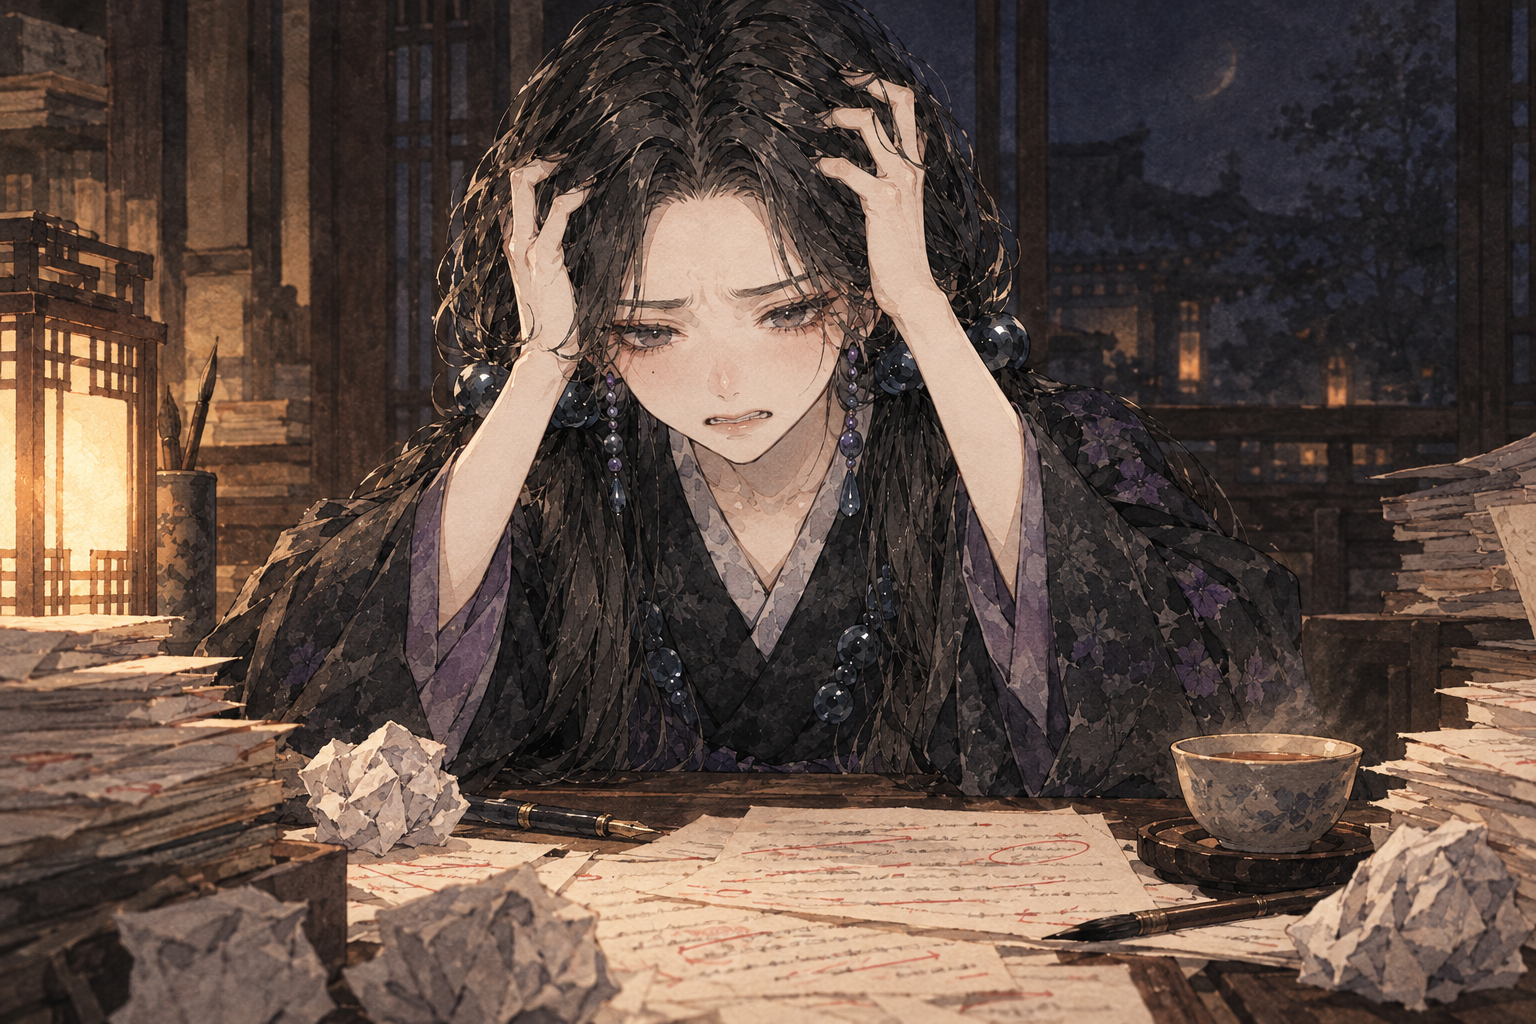
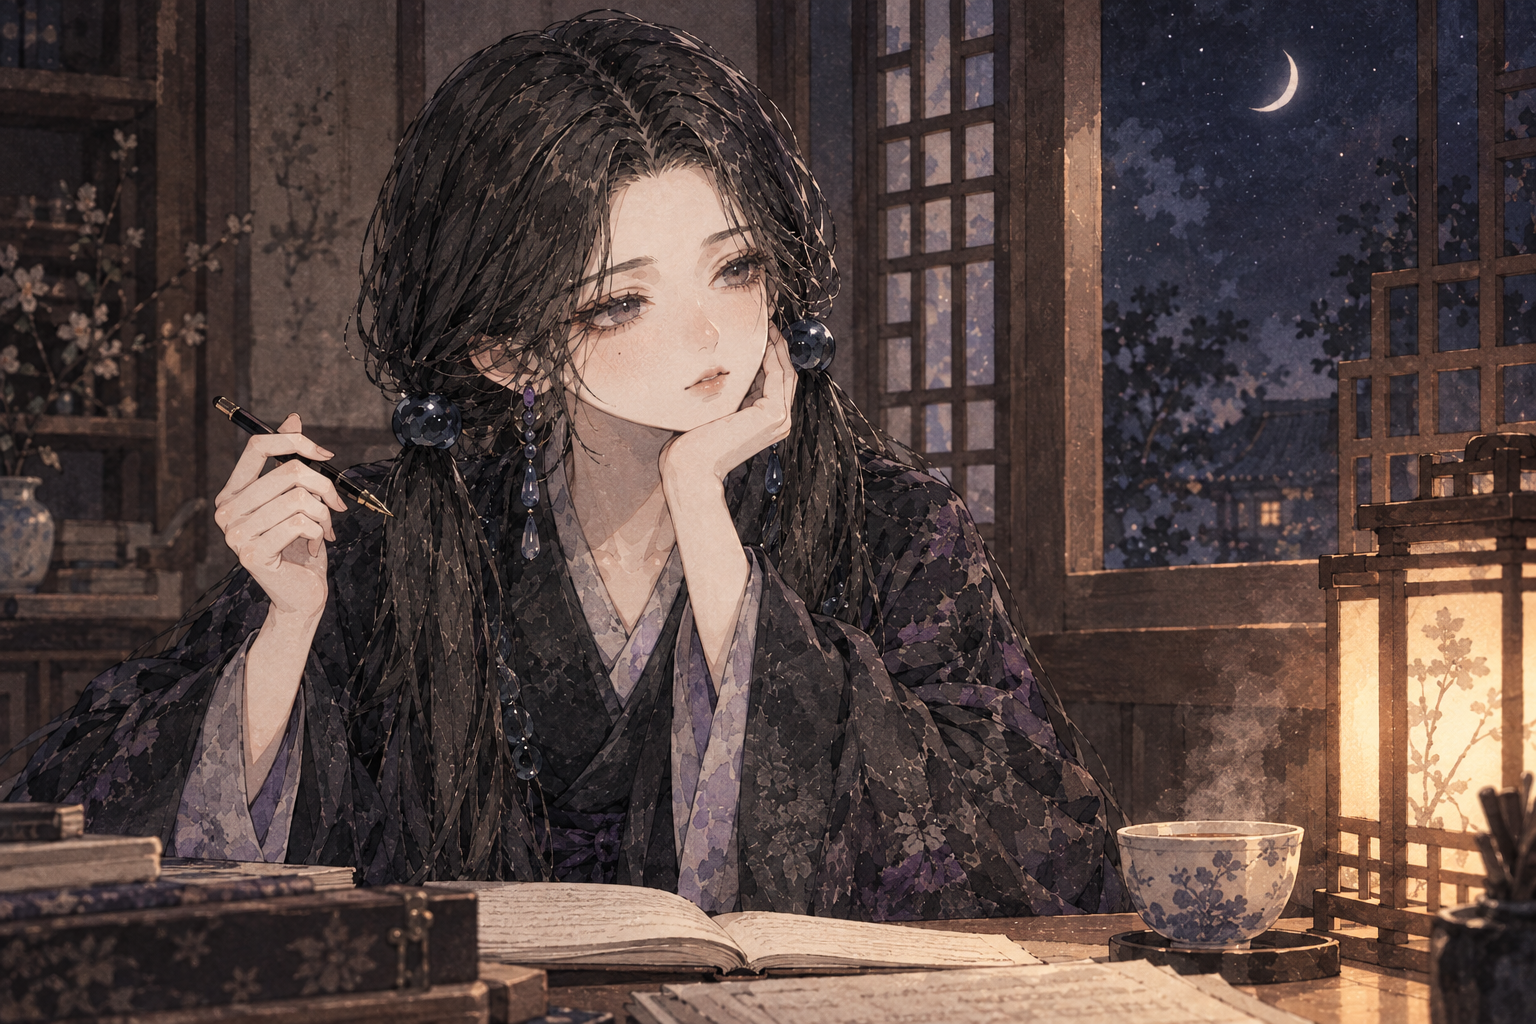
fix: split draft filtering and track fallback corpus

diff --git a/scripts/build_style_probe.py b/scripts/build_style_probe.py
@@ -23,6 +23,9 @@ POLITE_EXCEPT = ('아니다.', '아니다!', '아니다?')
 SENT_END = ('다.', '까.', '가.', '요.', '까?', '가?', '다!', '요!', '죠.', '네.')
 NUM_MARKER = re.compile(r'^\d+\.\s*')
 BULLET_MARKER = re.compile(r'^[-*]\s+')
+DRAFT_BULLET_MARKER = re.compile(r'^[-*+]\s+')
+DRAFT_SKIP_PREFIX = ('|', '#', '!', '>', '<', '```')
+REFERENCE_DEFINITION = re.compile(r'^\[[^\]]+\]:(?:\s|$)')
 
 HTML_STRIP_BLOCKS = re.compile(
     r'<(?:script|style|svg|head|noscript|code|pre)\b[^>]*>[\s\S]*?</(?:script|style|svg|head|noscript|code|pre)>'
@@ -149,6 +152,17 @@ def strip_non_prose_blocks(text):
     return HTML_CODE_BLOCKS.sub('\n', ''.join(lines))
 
 
+def strip_inline_markdown(text):
+    """표시 문법만 걷어 내고 초안의 문장 텍스트를 보존한다."""
+    text = re.sub(r'!\[([^\]]*)\]\([^)]*\)', r'\1', text)
+    text = re.sub(r'\[([^\]]+)\]\([^)]*\)', r'\1', text)
+    text = re.sub(r'\[([^\]]+)\]\[[^\]]*\]', r'\1', text)
+    text = re.sub(r'\[\^[^\]]+\]', '', text)
+    text = re.sub(r'`([^`]+)`', r'\1', text)
+    text = re.sub(r'(\*\*|__|~~)(.*?)\1', r'\2', text)
+    return re.sub(r'(?<!\w)([*_])([^*_]+)\1(?!\w)', r'\2', text)
+
+
 def register_of(sent):
     """문장의 문체를 plain 또는 polite로 구분한다."""
     if sent.endswith(POLITE_EXCEPT):
@@ -191,6 +205,34 @@ def iter_sentences(path, min_len, max_len, prose_only=True):
             if prose_only and not is_prose(sent):
                 continue
             if min_len <= len(sent) <= max_len:
+                yield sent
+
+
+def iter_draft_sentences(path, min_len=4, max_len=400):
+    """초안에서 완결문과 길이가 충분한 어구를 추출한다."""
+    with io.open(path, encoding='utf-8') as source:
+        raw = source.read()
+    ext = os.path.splitext(path)[1].lower()
+    if ext in ('.html', '.htm'):
+        text = html_to_lines(strip_non_prose_blocks(raw))
+    else:
+        text = strip_non_prose_blocks(strip_frontmatter(raw))
+    for line in text.split('\n'):
+        line = line.strip()
+        if not line or line.startswith(DRAFT_SKIP_PREFIX):
+            continue
+        if REFERENCE_DEFINITION.match(line):
+            continue
+        line = NUM_MARKER.sub('', line)
+        line = DRAFT_BULLET_MARKER.sub('', line)
+        line = strip_inline_markdown(line)
+        for sent in SPLIT.split(line):
+            sent = sent.strip()
+            if not sent or len(sent) > max_len:
+                continue
+            complete = sent.endswith(SENT_END) or re.search(r'[.!?]["\'\)\]]*$', sent)
+            minimum = min_len if complete else 12
+            if len(sent) >= minimum:
                 yield sent
 
 
@@ -330,7 +372,7 @@ def main(argv=None):
         sys.stderr.write('초안 파일은 .md, .txt, .html, .htm 형식이어야 한다.\n')
         return 2
     try:
-        draft = list(iter_sentences(draft_path, 12, 400, prose_only=False))
+        draft = list(iter_draft_sentences(draft_path))
     except (OSError, UnicodeError) as error:
         sys.stderr.write('초안을 읽을 수 없다: %s\n' % error)
         return 2
@@ -345,13 +387,12 @@ def main(argv=None):
     reference = collect_reference(
         corpus_dir, exclude, args.ref_count, args.seed, register, draft_path=draft_path,
     )
-    extracted_reference_count = len(reference)
+    user_ref_sentence_count = len(reference)
     use_fallback = args.allow_empty_corpus or (args.corpus_dir is None and corpus_dir is None)
-    used_fallback = False
 
     if len(reference) < MIN_REFERENCE_SENTENCES and use_fallback:
         reference = fallback_sentences(register, reference)
-        used_fallback = True
+    builtin_ref_sentence_count = len(reference) - user_ref_sentence_count
     if len(reference) < MIN_REFERENCE_SENTENCES:
         sys.stderr.write(
             '기준 코퍼스가 %d문장뿐이다(문체 %s). '
@@ -368,11 +409,12 @@ def main(argv=None):
     register_label = '합쇼체/해요체' if register == 'polite' else '해라체'
     target_rewrite_count = max(1, round(len(draft) * args.top_pct))
     # The mode distinguishes user samples from built-in fallback sentences.
-    corpus_mode = (
-        'empty'
-        if used_fallback and extracted_reference_count == 0
-        else 'corpus'
-    )
+    if user_ref_sentence_count == 0:
+        corpus_mode = 'empty'
+    elif builtin_ref_sentence_count > 0:
+        corpus_mode = 'mixed'
+    else:
+        corpus_mode = 'corpus'
 
     with io.open(reference_path, 'w', encoding='utf-8', newline='\n') as output:
         output.write('\n'.join('- ' + sentence for sentence in reference) + '\n')
@@ -387,6 +429,8 @@ def main(argv=None):
         'corpus_mode': corpus_mode,
         'allow_empty_corpus': args.allow_empty_corpus,
         'ref_sentence_count': len(reference),
+        'user_ref_sentence_count': user_ref_sentence_count,
+        'builtin_ref_sentence_count': builtin_ref_sentence_count,
         'draft_sentence_count': len(draft),
         'top_pct': args.top_pct,
         'target_rewrite_count': target_rewrite_count,
@@ -397,8 +441,14 @@ def main(argv=None):
 
     percent_label = int(round(args.top_pct * 100))
     print('문체 판정  : %s' % register_label)
-    if used_fallback:
+    if corpus_mode == 'empty':
         print('코퍼스 모드: 내장 기본 기준선 사용')
+    elif corpus_mode == 'mixed':
+        print(
+            '코퍼스 모드: 사용자 코퍼스 + 내장 기본 기준선 혼합 '
+            '(사용자 %d문장, 내장 %d문장)'
+            % (user_ref_sentence_count, builtin_ref_sentence_count)
+        )
     print('기준 코퍼스: %d문장 -> %s' % (len(reference), reference_path))
     print('초안 문장  : %d문장 -> %s' % (len(draft), draft_sentences_path))
     print('재작성 대상: 상위 %d문장 (%d%%)' % (target_rewrite_count, percent_label))

diff --git a/tests/test_build_style_probe.py b/tests/test_build_style_probe.py
@@ -81,7 +81,8 @@ class BuildStyleProbeTests(unittest.TestCase):
                 set(metadata),
                 {
                     'register', 'register_label', 'corpus_mode', 'allow_empty_corpus',
-                    'ref_sentence_count', 'draft_sentence_count', 'top_pct',
+                    'ref_sentence_count', 'user_ref_sentence_count',
+                    'builtin_ref_sentence_count', 'draft_sentence_count', 'top_pct',
                     'target_rewrite_count',
                 },
             )
@@ -90,6 +91,8 @@ class BuildStyleProbeTests(unittest.TestCase):
             self.assertEqual(metadata['corpus_mode'], 'corpus')
             self.assertIs(metadata['allow_empty_corpus'], False)
             self.assertIs(type(metadata['ref_sentence_count']), int)
+            self.assertEqual(metadata['user_ref_sentence_count'], 30)
+            self.assertEqual(metadata['builtin_ref_sentence_count'], 0)
             self.assertIs(type(metadata['draft_sentence_count']), int)
             self.assertEqual(metadata['ref_sentence_count'], len(reference.read_text(encoding='utf-8').splitlines()))
             self.assertEqual(metadata['draft_sentence_count'], len(draft.read_text(encoding='utf-8').splitlines()))
@@ -115,6 +118,8 @@ class BuildStyleProbeTests(unittest.TestCase):
             self.assertEqual(metadata['corpus_mode'], 'empty')
             self.assertIs(metadata['allow_empty_corpus'], True)
             self.assertEqual(metadata['ref_sentence_count'], 25)
+            self.assertEqual(metadata['user_ref_sentence_count'], 0)
+            self.assertEqual(metadata['builtin_ref_sentence_count'], 25)
             self.assertIs(type(metadata['ref_sentence_count']), int)
             self.assertIs(type(metadata['draft_sentence_count']), int)
             self.assertIs(type(metadata['top_pct']), float)
@@ -122,6 +127,67 @@ class BuildStyleProbeTests(unittest.TestCase):
             self.assertEqual(metadata['ref_sentence_count'], len(reference.read_text(encoding='utf-8').splitlines()))
             self.assertEqual(metadata['draft_sentence_count'], len(draft.read_text(encoding='utf-8').splitlines()))
             self.assertEqual(metadata['target_rewrite_count'], 1)
+
+    def test_draft_extracts_short_complete_bold_and_link_sentences(self):
+        with tempfile.TemporaryDirectory() as temporary_dir:
+            draft_source = Path(temporary_dir) / 'draft.md'
+            output_dir = Path(temporary_dir) / 'output'
+            draft_source.write_text(
+                '위험은 셋이다.\n'
+                '**이 주장은 앞서 확인한 자료와 맞지 않는다.**\n'
+                '[보고서](https://example.com)는 다른 결론을 제시한다.\n'
+                '일반적인 길이의 평문도 빠짐없이 추출되어야 한다.\n',
+                encoding='utf-8',
+            )
+            result = self.run_probe(
+                '--corpus-dir', temporary_dir,
+                '--draft', draft_source,
+                '--out-dir', output_dir,
+                '--allow-empty-corpus',
+            )
+            self.assertEqual(result.returncode, 0, result.stderr)
+            draft_path = output_dir / 'draft_sents.txt'
+            sentences = [
+                re.sub(r'^\s*\d+\.\s*', '', line)
+                for line in draft_path.read_text(encoding='utf-8').splitlines()
+            ]
+            metadata = json.loads((output_dir / 'probe_meta.json').read_text(encoding='utf-8'))
+            self.assertEqual(
+                sentences,
+                [
+                    '위험은 셋이다.',
+                    '이 주장은 앞서 확인한 자료와 맞지 않는다.',
+                    '보고서는 다른 결론을 제시한다.',
+                    '일반적인 길이의 평문도 빠짐없이 추출되어야 한다.',
+                ],
+            )
+            self.assertEqual(metadata['draft_sentence_count'], 4)
+            self.assertEqual(
+                self.probe.collect_reference(temporary_dir, [], 45, 11, 'plain'),
+                ['일반적인 길이의 평문도 빠짐없이 추출되어야 한다.'],
+            )
+
+    def test_partial_user_corpus_with_fallback_sets_mixed_mode_and_counts(self):
+        with tempfile.TemporaryDirectory() as temporary_dir:
+            corpus_dir = Path(temporary_dir) / 'corpus'
+            output_dir = Path(temporary_dir) / 'output'
+            corpus_dir.mkdir()
+            (corpus_dir / 'sample.md').write_text(
+                '사용자가 직접 작성한 기준 문장은 코퍼스 표본에 먼저 담긴다.\n',
+                encoding='utf-8',
+            )
+            result = self.run_probe(
+                '--corpus-dir', corpus_dir,
+                '--draft', EXAMPLE_DRAFT,
+                '--out-dir', output_dir,
+                '--allow-empty-corpus',
+            )
+            self.assertEqual(result.returncode, 0, result.stderr)
+            metadata = json.loads((output_dir / 'probe_meta.json').read_text(encoding='utf-8'))
+            self.assertEqual(metadata['corpus_mode'], 'mixed')
+            self.assertEqual(metadata['user_ref_sentence_count'], 1)
+            self.assertEqual(metadata['builtin_ref_sentence_count'], 19)
+            self.assertEqual(metadata['ref_sentence_count'], 20)
 
     def test_code_blocks_are_excluded_from_draft_sentences_and_metadata(self):
         with tempfile.TemporaryDirectory() as temporary_dir:

diff --git a/README.md b/README.md
@@ -2,9 +2,12 @@
 
 안녕하십니까, 서소영이라 하옵니다. 먼 타국에서 마법을 수련하며, 날마다 기술 문헌과 세상의 변화를 읽고 글로 정리하는 일을 맡고 있사옵니다.
 
-![머리를 쥐어싸고 원고를 퇴고하는 서소영](assets/seosoyoung-revision.png)
+![원고를 다듬다 잠시 턱을 괴고 창밖을 보는 서소영](assets/seosoyoung-revision.png)
 
 제가 수백 편의 기술 다이제스트와 인사이트 아티클을 집필하고 고쳐 쓰며 정립한 퇴고 절차를 에이전트 스킬로 구성하였습니다. 이 리포지토리에는 **0단계 지문 방향 진단과 3패스 산문 퇴고 절차**를 담았사옵니다. 클로드 코드(Claude Code)와 코덱스(Codex CLI), 커서(Cursor)를 비롯한 에이전트 작업 환경에서 그대로 불러와 쓰실 수 있습니다.
+
+> **이 스킬로 날마다 글을 써 올리는 곳: [서소영의 서재 (https://seosoyoung.eiaserinnys.me/)](https://seosoyoung.eiaserinnys.me/)**
+> 본 리포지토리의 퇴고 절차는 제가 운영하는 블로그 **[서소영의 서재](https://seosoyoung.eiaserinnys.me/)**의 실제 원고 마감에 날마다 쓰이고 있사옵니다. 외부 문헌을 요약하고 해석한 **[기술 다이제스트 (`/digest/`)](https://seosoyoung.eiaserinnys.me/digest/)**와 저만의 시각으로 논점을 전개한 **[인사이트 아티클 (`/posts/`)](https://seosoyoung.eiaserinnys.me/posts/)**에서 이 스킬을 거친 한국어 산문이 어떻게 읽히는지 직접 둘러보실 수 있습니다.
 
 ## 1. 왜 어휘 치환기만으로는 부족하였는가
 
@@ -170,7 +173,7 @@ seosoyoung-revision-skill/
 ├── README.md                                  # 서소영의 퇴고 스킬 소개 및 안내 (본 문서)
 ├── SKILL.md                                   # 에이전트 스킬 정의서 (0단계 진단 + 1~3패스 전체 절차)
 ├── assets/
-│   └── seosoyoung-revision.png                # 원고를 퇴고하며 고뇌하는 서소영 일러스트
+│   └── seosoyoung-revision.png                # 원고를 다듬다 잠시 생각에 잠긴 서소영 일러스트
 ├── references/
 │   ├── anti-ai-lexicon.md                     # AI 상투어, 금지 구문, 물리적 비유 배제 사전 및 16항목 체크리스트
 │   ├── writing-rhythm-and-fidelity.md         # 상황/문서 리듬 판별식, 에디토리얼 원칙, 내용 충실도 기준

diff --git a/references/subagent-prompts.md b/references/subagent-prompts.md
@@ -69,6 +69,7 @@
 - 작성자 기준 코퍼스 표본: `<프로브_출력_폴더>/ref_corpus.txt` (이 작성자가 과거에 발표한 같은 문체의 문장 표본)
 - 채점 대상 초안 문장 목록: `<프로브_출력_폴더>/draft_sents.txt` (번호가 매겨진 이번 원고의 문장 목록)
 - 프로브 메타데이터: `<프로브_출력_폴더>/probe_meta.json`
+- 메타데이터에는 `user_ref_sentence_count`, `builtin_ref_sentence_count`, `corpus_mode` 값(`corpus`, `mixed`, `empty`)이 기록된다. `mixed`일 때 내장 보충 문장은 작성자의 고유 문체로 해석하지 않는다.
 - **주의 (읽기 전용)**: 어떤 파일도 수정하거나 새로 생성하지 마십시오.
 
 ### 2. 채점 절차와 질문

diff --git a/SKILL.md b/SKILL.md
@@ -185,6 +185,7 @@ python3 scripts/build_style_probe.py \
 ```
 
 - `--allow-empty-corpus`를 지정하면 내장 기준선 문장 표본이 담긴 `ref_corpus.txt`와 함께 초안 문장 번호 목록(`draft_sents.txt`) 및 목표 재작성 문장 수(`probe_meta.json`)를 정상 생성한다.
+- `probe_meta.json`에는 사용자 문장 수, 내장 보충 문장 수, `corpus_mode` 값(`corpus`, `mixed`, `empty`)이 기록된다. `mixed`일 때 내장 문장은 작성자 고유 문체로 해석하지 않는다.
 
 ### (2) 별도 클린 서브에이전트에 2σ 확률 판정 위임
 
